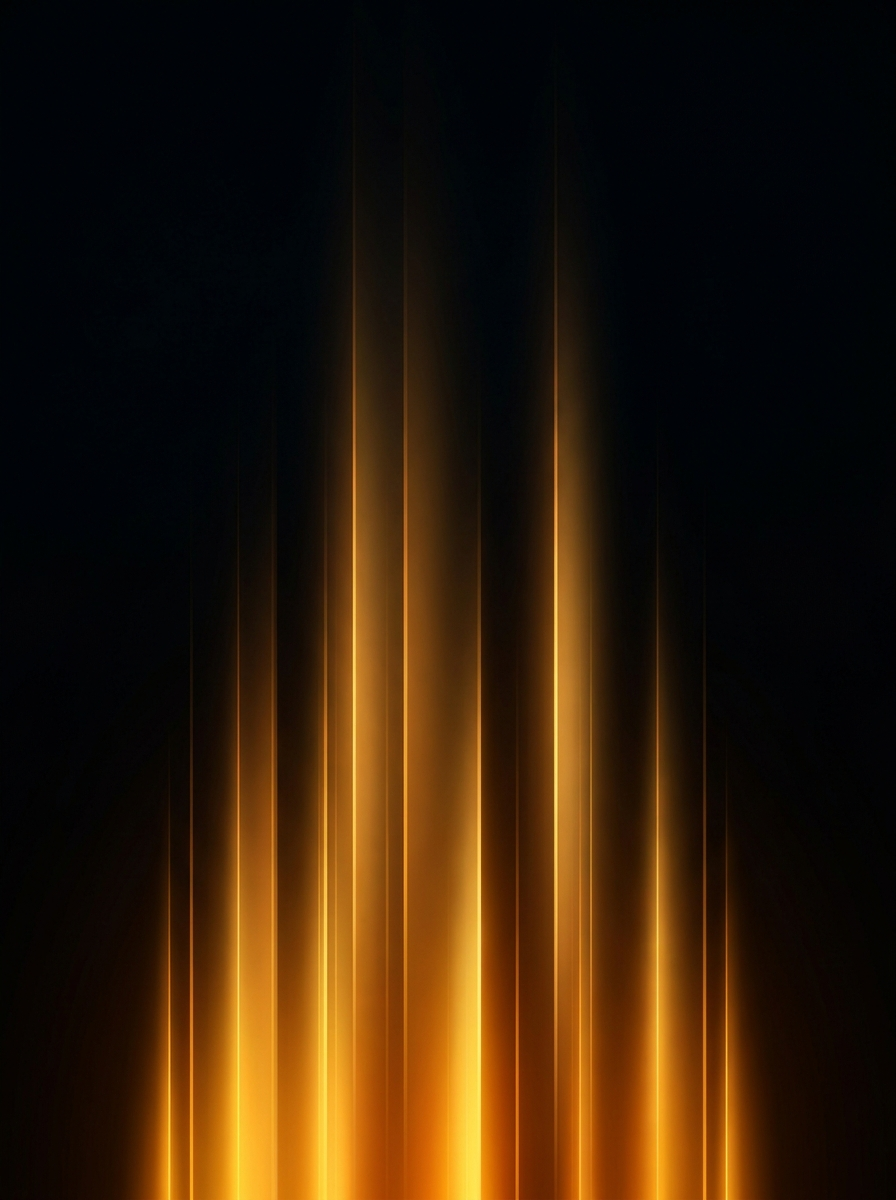
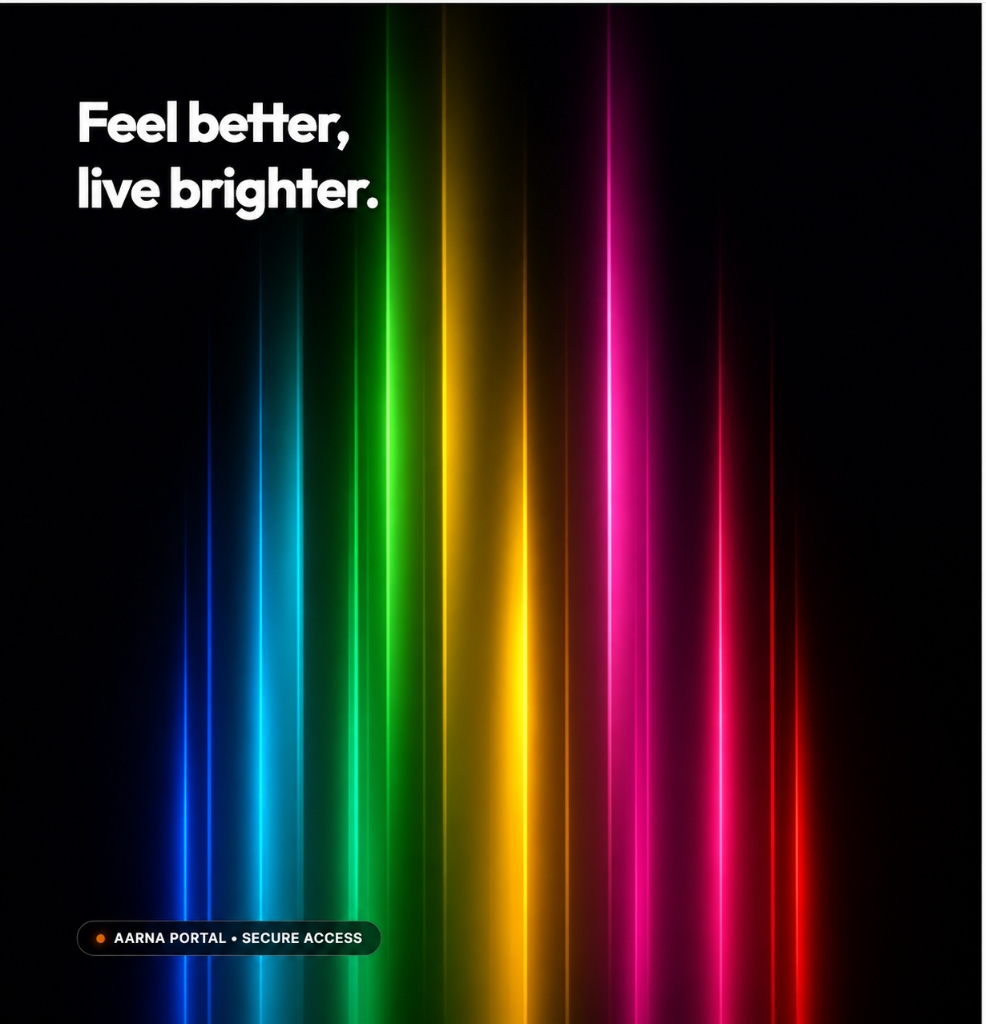
Replace orange beams with vibrant rainbow spectrum image in visual panel

diff --git a/admin.html b/admin.html
@@ -47,6 +47,18 @@
       overflow-x: hidden;
     }
 
+    .sr-only {
+      position: absolute;
+      width: 1px;
+      height: 1px;
+      padding: 0;
+      margin: -1px;
+      overflow: hidden;
+      clip: rect(0, 0, 0, 0);
+      white-space: nowrap;
+      border: 0;
+    }
+
     /* Full-screen Split Grid (spans 100vw x 100vh) */
     .fullscreen-auth-container {
       width: 100vw;
@@ -60,26 +72,12 @@
     .auth-visual-panel {
       position: relative;
       background-color: var(--bg-dark);
-      background-image: url('assets/images/login-beam-bg.jpg');
+      background-image: url('assets/images/login-rainbow-bg.jpg');
       background-size: cover;
-      background-position: center bottom;
+      background-position: left center;
       background-repeat: no-repeat;
-      display: flex;
-      flex-direction: column;
-      justify-content: space-between;
-      padding: 5rem 4.5rem 4rem;
       min-height: 100vh;
-      overflow: hidden;
-    }
-
-    /* Subtle dark gradient overlay to ensure text contrast */
-    .auth-visual-panel::before {
-      content: '';
-      position: absolute;
-      inset: 0;
-      background: linear-gradient(180deg, rgba(0, 0, 0, 0.5) 0%, rgba(0, 0, 0, 0.1) 40%, rgba(0, 0, 0, 0.55) 100%);
-      pointer-events: none;
-      z-index: 1;
+      width: 100%;
     }
 
     .visual-panel-content {
@@ -397,21 +395,9 @@
   <!-- Full-Screen Split View Layout -->
   <div class="fullscreen-auth-container">
 
-    <!-- LEFT VISUAL PANEL (Glowing amber vertical beams with Feel better, live brighter) -->
-    <div class="auth-visual-panel">
-      <div class="visual-panel-content">
-        <h1 class="visual-panel-headline">
-          Feel better,<br>
-          live brighter.
-        </h1>
-      </div>
-
-      <div class="visual-panel-footer">
-        <div class="visual-panel-badge">
-          <span class="visual-panel-dot"></span>
-          <span>Aarna Portal • Secure Access</span>
-        </div>
-      </div>
+    <!-- LEFT VISUAL PANEL (Rainbow beams with Feel better, live brighter) -->
+    <div class="auth-visual-panel" role="img" aria-label="Aarna Portal — Feel better, live brighter. Secure Access.">
+      <h1 class="sr-only">Feel better, live brighter.</h1>
     </div>
 
     <!-- RIGHT FORM PANEL -->
